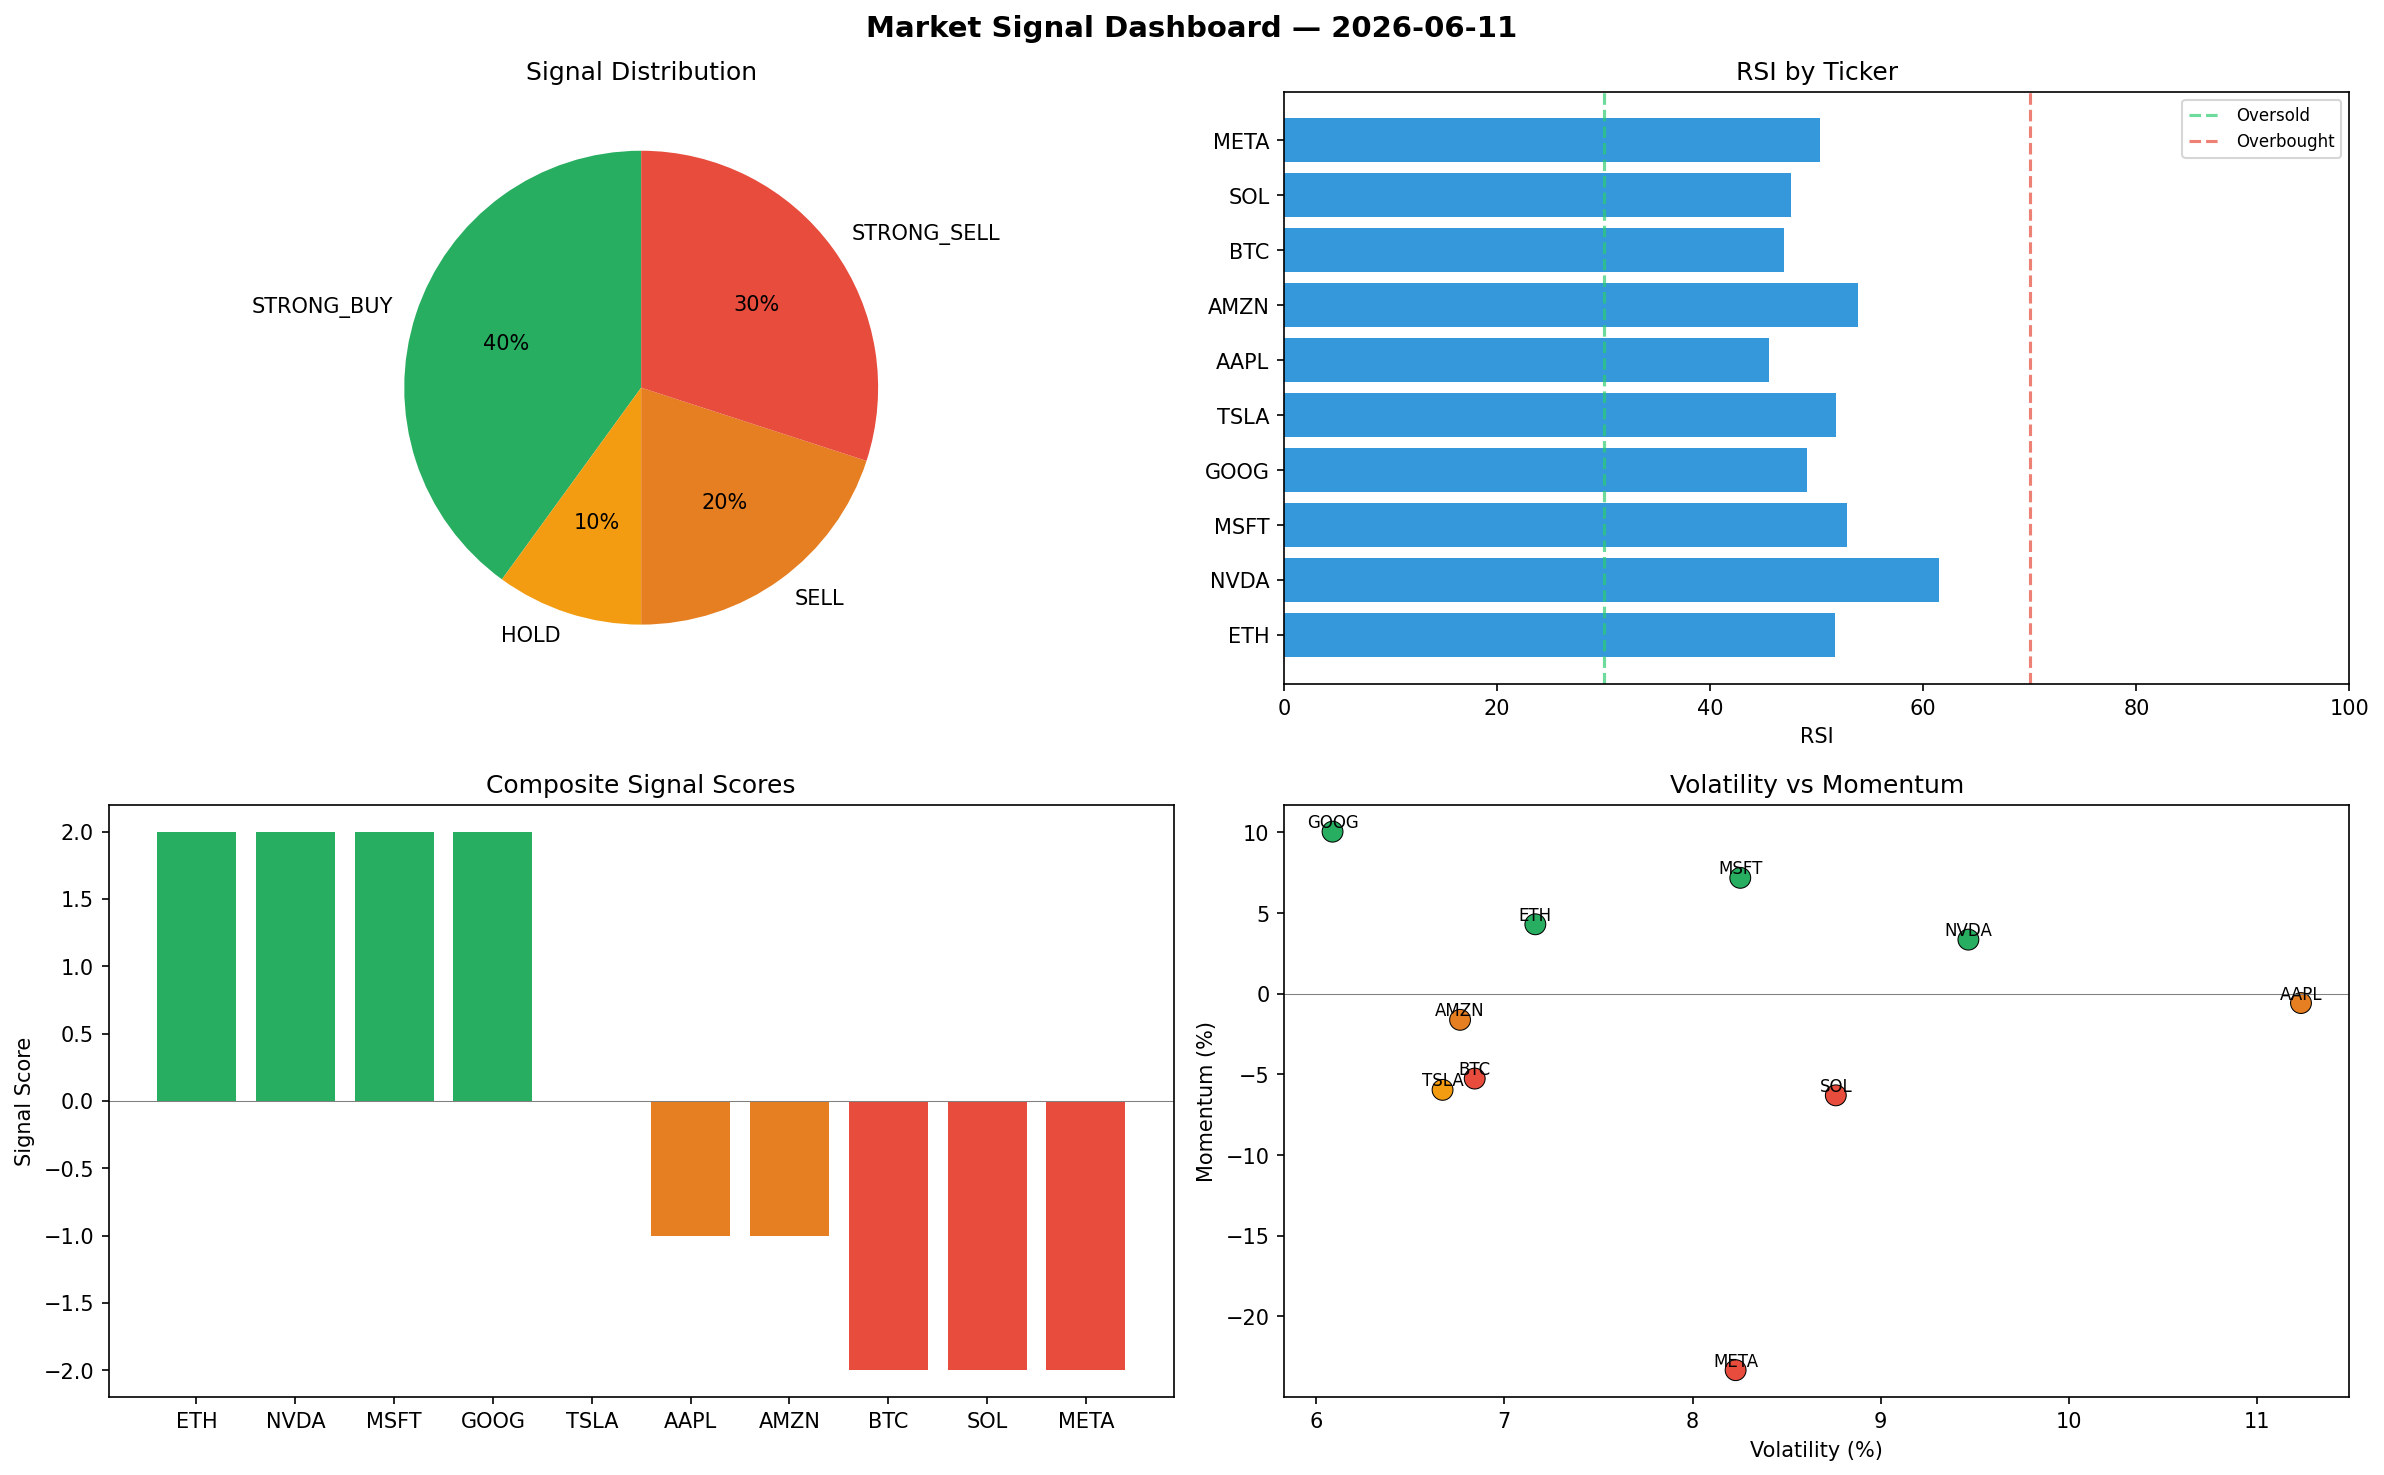
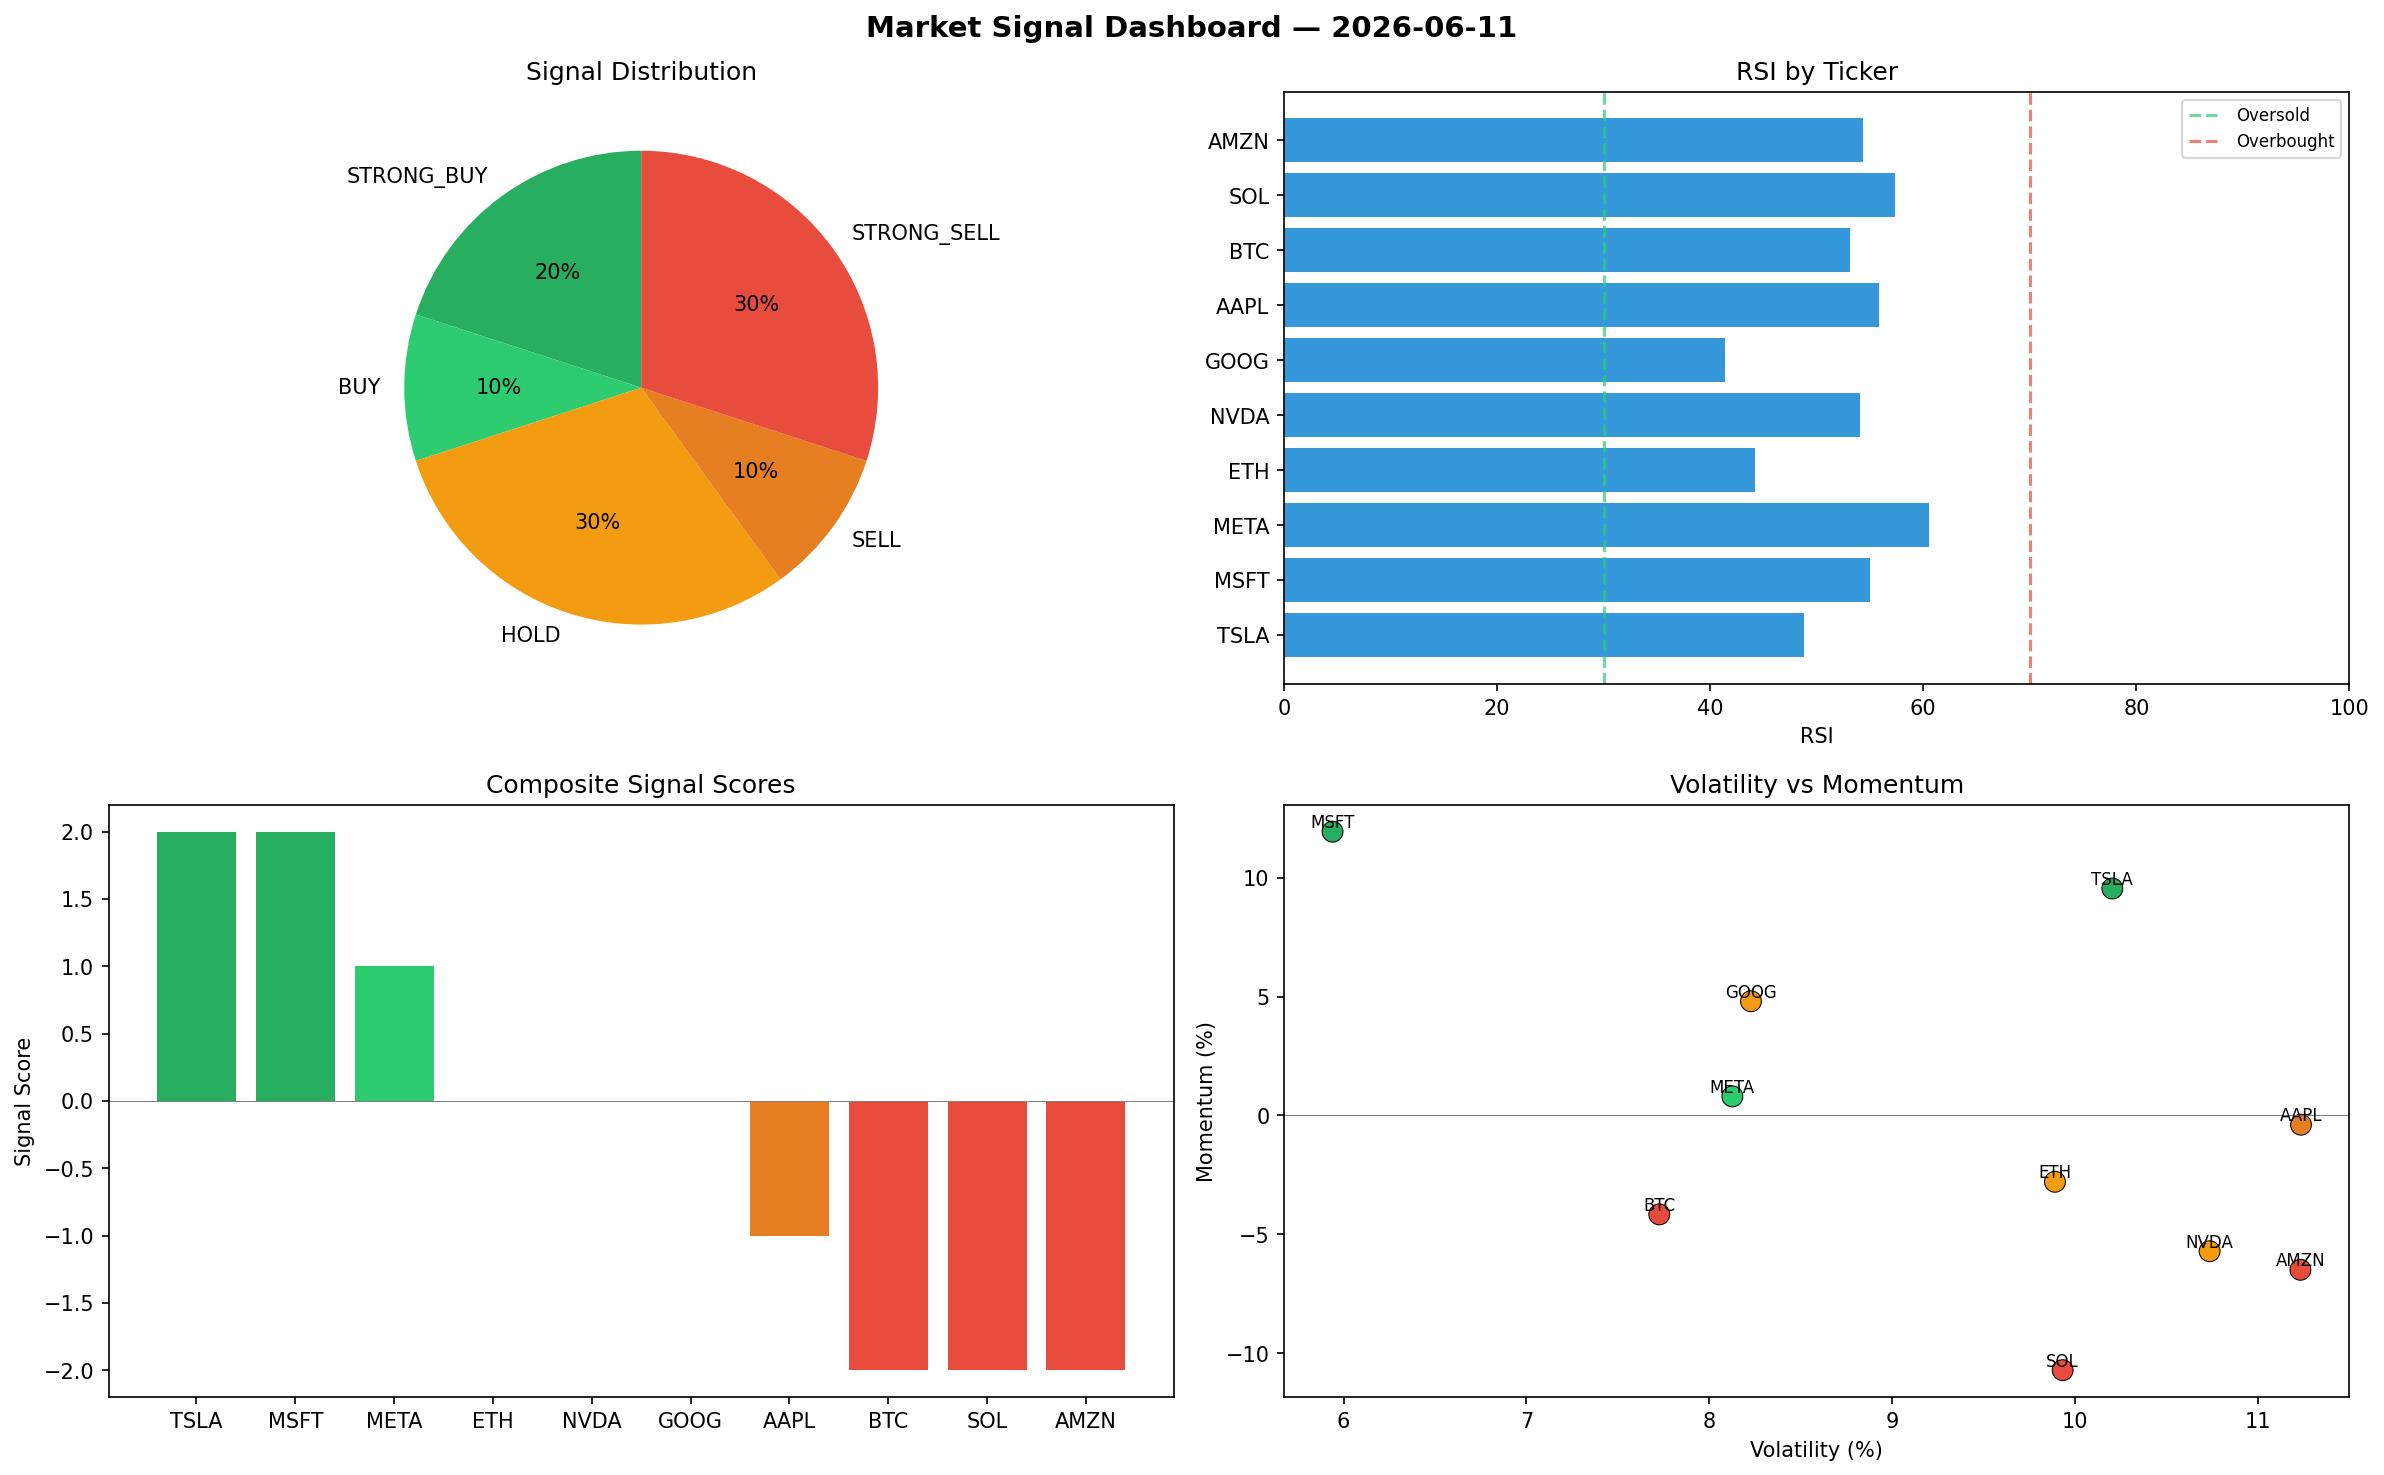
automated-bots: market signals 2026-06-11T22:20

diff --git a/logs/2026-06-11.md b/logs/2026-06-11.md
@@ -1,6 +1,6 @@
 # Market Signal Report — 2026-06-11
 
-**Run ID:** `331cd6bf8d` | **Buy:** 4 | **Sell:** 5 | **Hold:** 1
+**Run ID:** `02b083fd09` | **Buy:** 3 | **Sell:** 4 | **Hold:** 3
 
 ![Dashboard](2026-06-11_dashboard.png)
 
@@ -8,28 +8,28 @@
 
 | Ticker | Price | Signal | Score | RSI | Momentum | Confidence |
 |--------|-------|--------|-------|-----|----------|------------|
-| ETH | $3930.09 | **STRONG_BUY** | 2 | 51.68 | 0.043 | 0.5 |
-| NVDA | $2294.29 | **STRONG_BUY** | 2 | 61.43 | 0.0335 | 0.5 |
-| MSFT | $4586.25 | **STRONG_BUY** | 2 | 52.82 | 0.0718 | 0.5 |
-| GOOG | $702.05 | **STRONG_BUY** | 2 | 49.06 | 0.1004 | 0.5 |
-| TSLA | $1311.06 | **HOLD** | 0 | 51.8 | -0.0596 | 0.0 |
-| AAPL | $2913.25 | **SELL** | -1 | 45.53 | -0.0058 | 0.25 |
-| AMZN | $1623.73 | **SELL** | -1 | 53.89 | -0.0162 | 0.25 |
-| BTC | $2237.95 | **STRONG_SELL** | -2 | 46.91 | -0.0526 | 0.5 |
-| SOL | $2420.88 | **STRONG_SELL** | -2 | 47.61 | -0.063 | 0.5 |
-| META | $1345.01 | **STRONG_SELL** | -2 | 50.28 | -0.2333 | 0.5 |
+| TSLA | $4769.63 | **STRONG_BUY** | 2 | 48.83 | 0.0954 | 0.5 |
+| MSFT | $1757.67 | **STRONG_BUY** | 2 | 55.02 | 0.1193 | 0.5 |
+| META | $4231.12 | **BUY** | 1 | 60.52 | 0.008 | 0.25 |
+| ETH | $2158.86 | **HOLD** | 0 | 44.2 | -0.0279 | 0.0 |
+| NVDA | $1122.85 | **HOLD** | 0 | 54.02 | -0.0571 | 0.0 |
+| GOOG | $4193.54 | **HOLD** | 0 | 41.42 | 0.048 | 0.0 |
+| AAPL | $2567.08 | **SELL** | -1 | 55.87 | -0.0039 | 0.25 |
+| BTC | $1480.41 | **STRONG_SELL** | -2 | 53.16 | -0.0416 | 0.5 |
+| SOL | $4018.71 | **STRONG_SELL** | -2 | 57.32 | -0.1071 | 0.5 |
+| AMZN | $442.07 | **STRONG_SELL** | -2 | 54.33 | -0.0649 | 0.5 |
 
 ## Delta vs Yesterday
 
 | Ticker | Today | Yesterday | Price Change | Signal Changed |
 |--------|-------|-----------|-------------|----------------|
-| ETH | STRONG_BUY | HOLD | 📈 1.38% | ⚠ YES |
-| NVDA | STRONG_BUY | HOLD | 📈 108.89% | ⚠ YES |
-| MSFT | STRONG_BUY | HOLD | 📈 26.54% | ⚠ YES |
-| GOOG | STRONG_BUY | HOLD | 📉 -85.44% | ⚠ YES |
-| TSLA | HOLD | STRONG_SELL | 📉 -54.32% | ⚠ YES |
-| AAPL | SELL | STRONG_BUY | 📈 1228.13% | ⚠ YES |
-| AMZN | SELL | STRONG_SELL | 📉 -50.11% | ⚠ YES |
-| BTC | STRONG_SELL | STRONG_BUY | 📉 -43.45% | ⚠ YES |
-| SOL | STRONG_SELL | HOLD | 📈 22.36% | ⚠ YES |
-| META | STRONG_SELL | STRONG_SELL | 📉 -64.91% | — |
+| TSLA | STRONG_BUY | STRONG_SELL | 📈 66.19% | ⚠ YES |
+| MSFT | STRONG_BUY | HOLD | 📉 -51.5% | ⚠ YES |
+| META | BUY | STRONG_SELL | 📈 10.38% | ⚠ YES |
+| ETH | HOLD | HOLD | 📉 -44.31% | — |
+| NVDA | HOLD | HOLD | 📈 2.23% | — |
+| GOOG | HOLD | HOLD | 📉 -13.01% | — |
+| AAPL | SELL | STRONG_BUY | 📈 1070.31% | ⚠ YES |
+| BTC | STRONG_SELL | STRONG_BUY | 📉 -62.59% | ⚠ YES |
+| SOL | STRONG_SELL | HOLD | 📈 103.11% | ⚠ YES |
+| AMZN | STRONG_SELL | STRONG_SELL | 📉 -86.42% | — |
